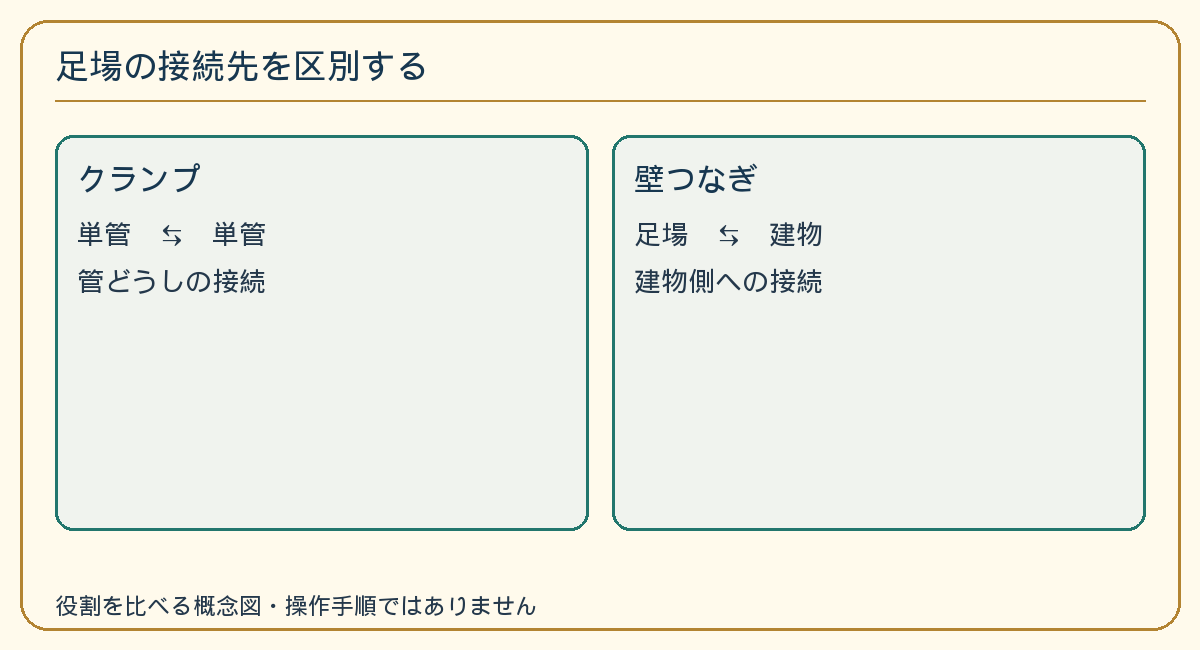
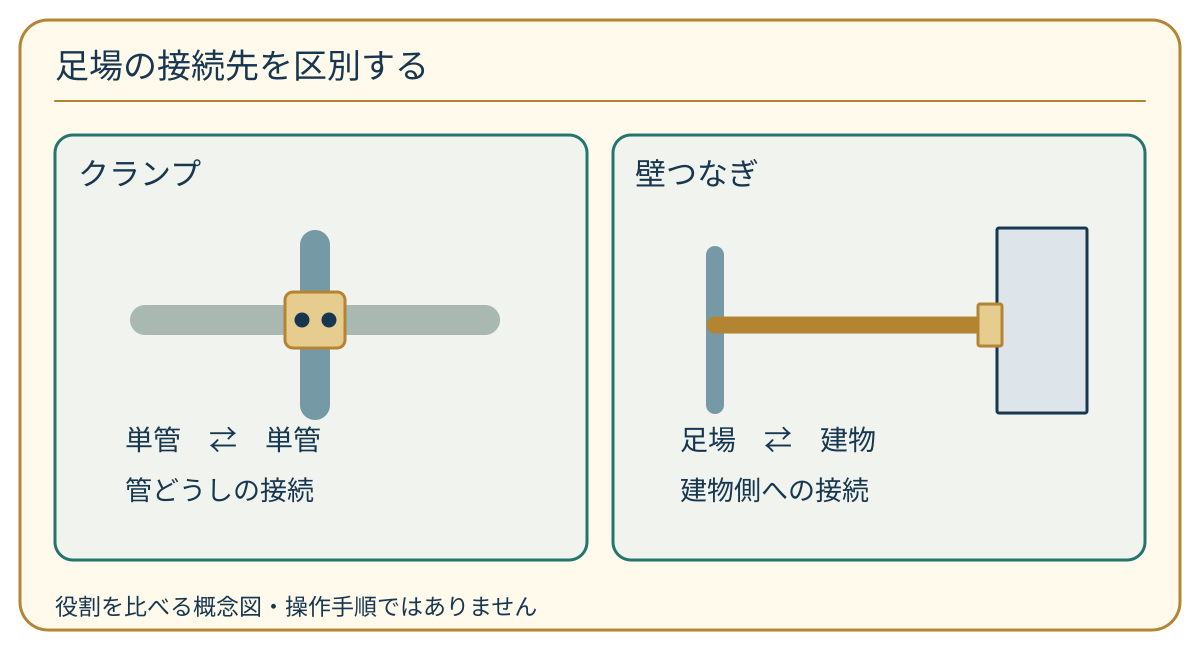
fix(kensetsu): illustrate scaffold pipe and rebar workpiece distinctions

diff --git a/scripts/kensetsu-authoring/draw-royal-differential-group01.py b/scripts/kensetsu-authoring/draw-royal-differential-group01.py
@@ -1,0 +1,66 @@
+"""Original controlled connection/task diagrams. Source evidence in group01 receipt.
+No source artwork is used; geometry expresses relationships, not installation steps.
+"""
+from pathlib import Path
+import subprocess
+ROOT = Path(__file__).resolve().parents[2]
+OUT = ROOT / 'docs/ssw-workspace/kensetsu/royal-differential-20261107/group01'
+ASSETS = ROOT / 'assets/kensetsu/differential'
+OUT.mkdir(parents=True, exist_ok=True)
+ASSETS.mkdir(parents=True, exist_ok=True)
+NAVY, TEAL, GOLD = '#173750', '#22766D', '#B38432'
+
+def text(x,y,s,size=27,anchor='start'):
+    return f'<text x="{x}" y="{y}" font-size="{size}" text-anchor="{anchor}">{s}</text>'
+
+def line(x1,y1,x2,y2,color=TEAL,width=12):
+    return f'<path d="M{x1},{y1} L{x2},{y2}" fill="none" stroke="{color}" stroke-width="{width}" stroke-linecap="round"/>'
+
+def rect(x,y,w,h,fill='#F0F3EE',stroke=TEAL,rx=18):
+    return f'<rect x="{x}" y="{y}" width="{w}" height="{h}" rx="{rx}" fill="{fill}" stroke="{stroke}" stroke-width="3"/>'
+
+def circle(x,y,r,fill='white',stroke=NAVY,width=3):
+    return f'<circle cx="{x}" cy="{y}" r="{r}" fill="{fill}" stroke="{stroke}" stroke-width="{width}"/>'
+
+def save(key,title,body):
+    svg=f'<svg xmlns="http://www.w3.org/2000/svg" width="1200" height="650" viewBox="0 0 1200 650"><g font-family="Noto Sans CJK JP" fill="{NAVY}">'
+    svg+=rect(20,20,1160,610,'#FFFAEC',GOLD,28)+text(55,78,title,34)+line(55,101,1145,101,GOLD,2)+body
+    svg+=text(55,615,'役割を比べる概念図・操作手順ではありません',23)+'</g></svg>'
+    path=OUT/(key+'.svg');path.write_text(svg+'\n')
+    subprocess.run(['inkscape',str(path),'--export-type=png',f'--export-filename={ASSETS/(key+".png")}'],check=True,stdout=subprocess.DEVNULL,stderr=subprocess.PIPE)
+
+# Clamp: two pipe axes meet at one connector; wall tie: scaffold-to-building.
+b=rect(55,135,532,425)+rect(613,135,532,425)
+b+=text(78,185,'クランプ',31)+text(635,185,'壁つなぎ',31)
+b+=line(145,320,485,320,'#A9B8B1',30)+line(315,245,315,405,'#769AA5',30)
+b+=rect(285,292,60,56,'#E7CC8F',GOLD,8)+circle(302,320,6,NAVY)+circle(329,320,6,NAVY)
+b+=text(125,450,'単管　⇄　単管',28)+text(125,500,'管どうしの接続')
+b+=line(715,255,715,405,'#769AA5',18)+line(715,325,1000,325,GOLD,17)
+b+=rect(997,228,90,185,'#DDE5EA',NAVY,2)+rect(978,304,24,42,'#E7CC8F',GOLD,2)
+b+=text(680,450,'足場　⇄　建物',28)+text(680,500,'建物側への接続')
+save('b3','足場の接続先を区別する',b)
+
+# Distinguish hole alignment, rotation, and confirmation. No force/acceptance values.
+b=''.join(rect(x,135,347,425) for x in [55,426,797])
+b+=text(78,185,'位置合わせ',31)+text(449,185,'レンチ',31)+text(820,185,'確認',31)
+b+=text(78,233,'接合部の穴')+rect(118,277,160,100,'#EDE2BF',GOLD,3)+rect(142,299,160,100,'#DDE5EA',TEAL,3)
+b+=circle(198,328,25,'none',GOLD,5)+circle(218,344,25,'none',TEAL,5)
+b+=line(198,310,218,310,GOLD,3)+text(78,495,'穴の位置をそろえる',25)
+b+=circle(600,337,46,'#DDE5EA',NAVY,4)
+b+='<path d="M600 307 L626 322 L626 352 L600 367 L574 352 L574 322 Z" fill="#E7CC8F" stroke="#173750" stroke-width="4"/>'
+b+='<path d="M557 296 A65 65 0 0 1 663 318 M663 318 L648 310 M663 318 L665 300" fill="none" stroke="#22766D" stroke-width="5"/>'
+b+=text(449,233,'ボルト・ナット')+text(449,450,'回転')+text(449,495,'回す働き')
+b+=text(820,280,'工具の準備')+text(970,370,'≠',64,'middle')+text(820,455,'施工結果の確認',25)
+save('b4','接合工具の働きと、結果の確認',b)
+
+# Workpiece states show task differences without inventing equipment models.
+b=''.join(rect(x,135,347,425) for x in [55,426,797])
+b+=text(78,185,'カッター',31)+text(449,185,'ベンダー',31)+text(820,185,'ハッカー・結束機',27)
+b+=text(78,235,'切断')+text(449,235,'曲げ加工')+text(820,235,'結束')
+b+=line(110,345,205,345,'#769AA5',25)+line(243,345,345,345,'#769AA5',25)
+b+=line(224,315,224,375,GOLD,3)
+b+='<path d="M487 365 H600 Q635 365 635 330 V285" fill="none" stroke="#769AA5" stroke-width="25" stroke-linecap="round"/>'
+b+=line(855,345,1080,345,'#769AA5',23)+line(970,275,970,420,'#A9B8B1',23)
+b+='<path d="M948 326 Q981 302 992 332 L950 367 Q978 391 994 355 Z" fill="none" stroke="#B38432" stroke-width="6" stroke-linejoin="round"/>'
+b+=text(78,495,'一本を切り分ける',25)+text(449,495,'形を曲げる')+text(820,495,'交差する鉄筋を結ぶ',25)
+save('b5','鉄筋の工具を目的で分ける',b)
